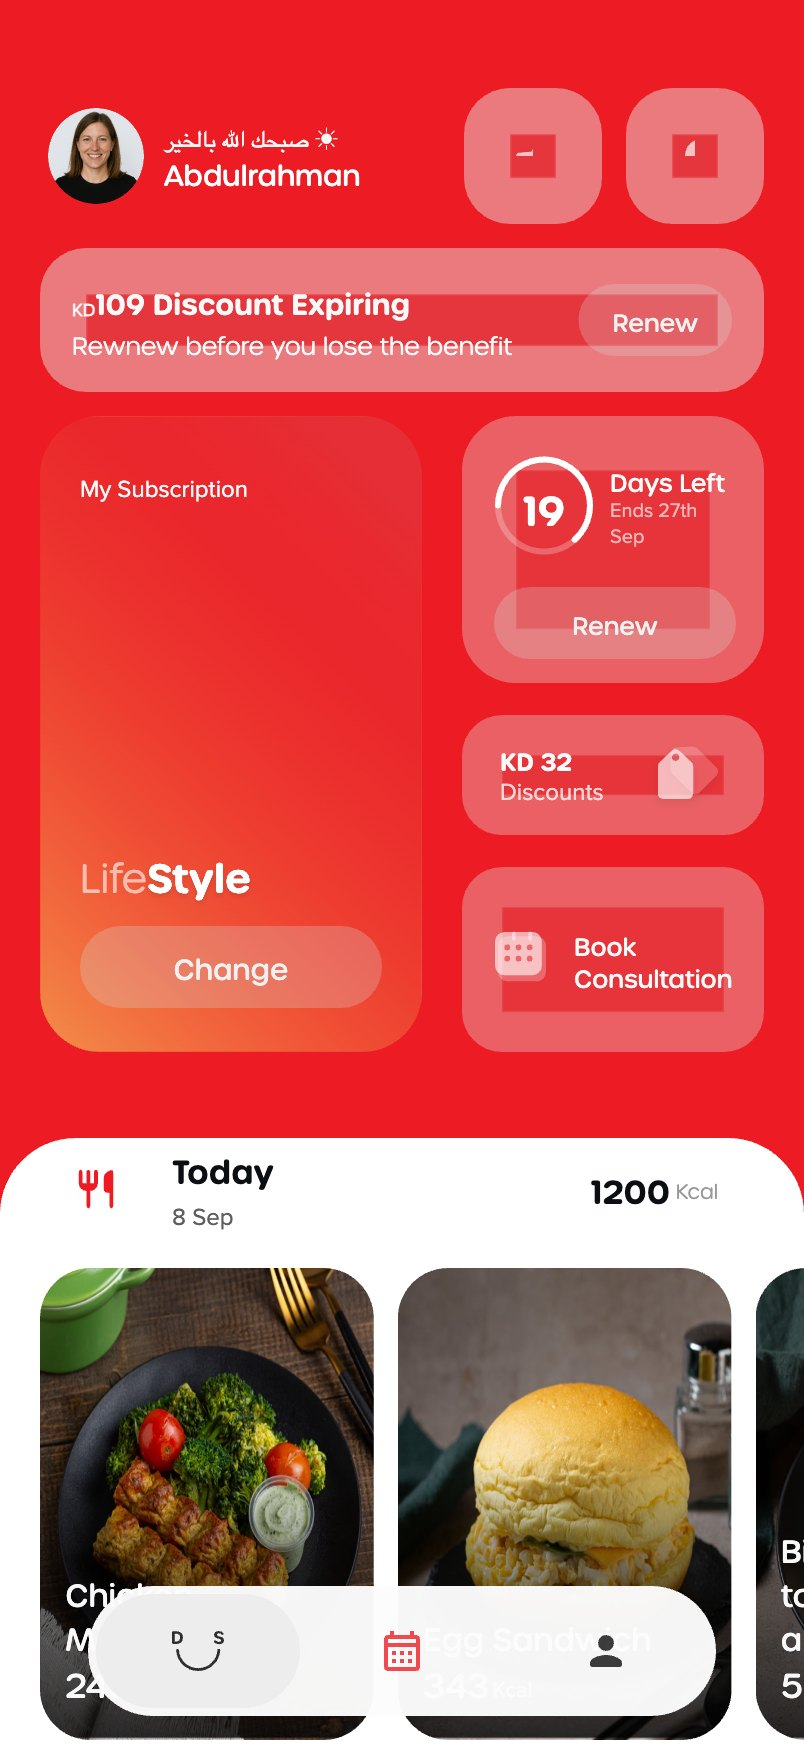
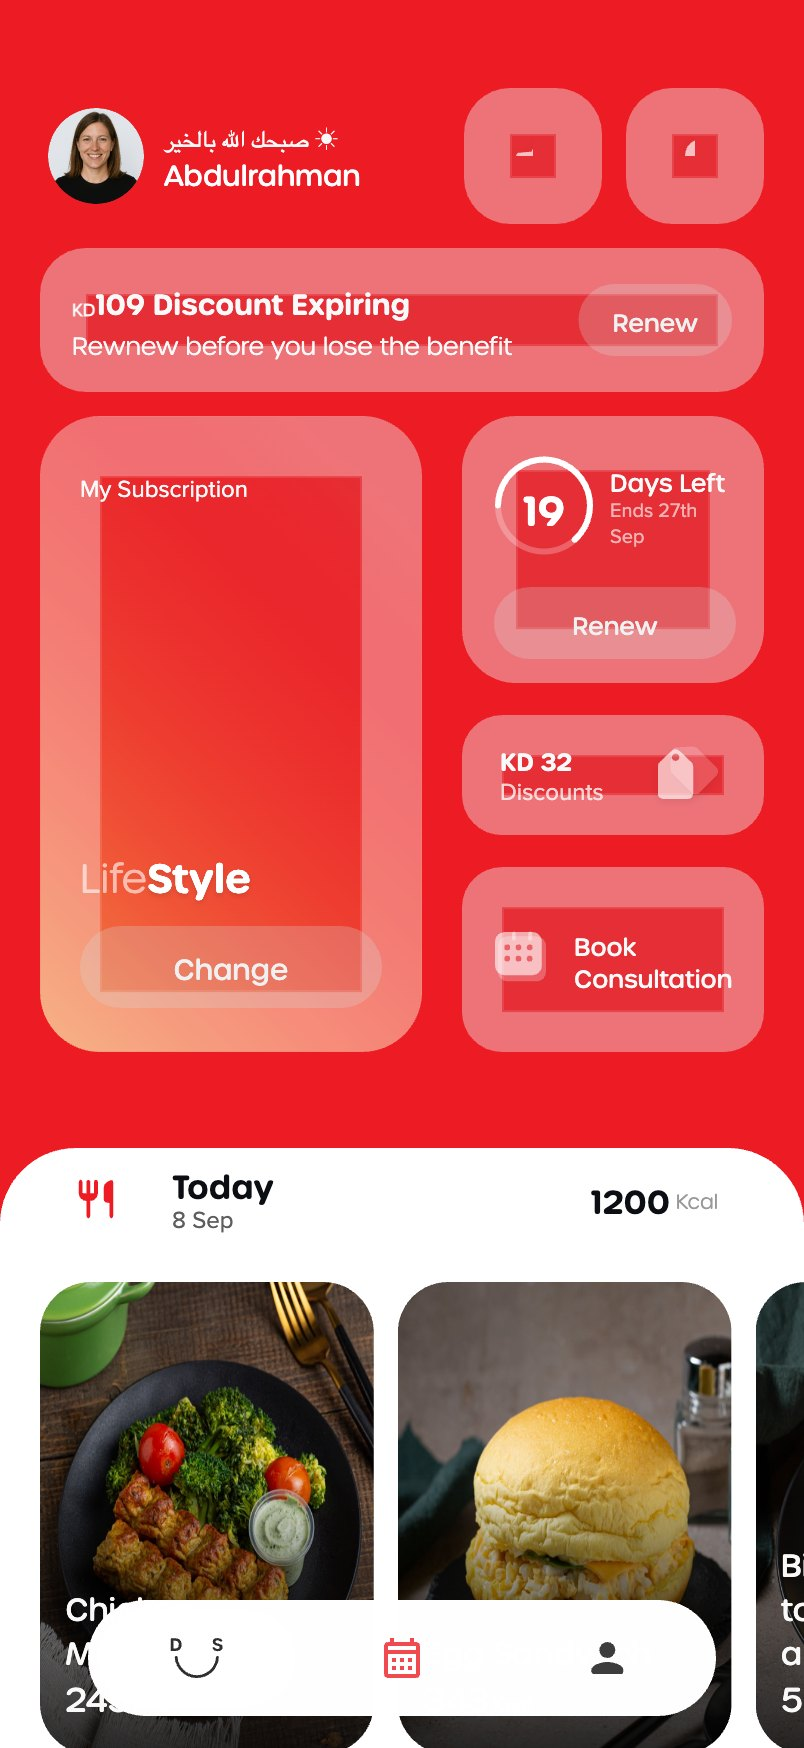
home v3: one glass recipe for every widget, hub's Apple tab bar, polish
All seven widgets (plan card included) now share ONE glass recipe via
pseudo-element layers — identical red tint base, blur, plus-lighter
milk and inner rim; audited computed styles to confirm they render the
same, radii per Figma. The plan widget's theme gradient layers over
the shared base so it finishes like its neighbours. Removed the
always-on top scroll blur. Meal sheet content gets Apple-style insets
clear of the 38px corners; day word and date sit closer; the macro
expansion slims to 84px so an open pill never collides with
'Tomorrow'. Tab bar rebuilt with the hub's exact Apple glass recipe
(white .34 + blur 30 saturate 200 contrast 1.06, layered inset
highlights, sheen gradient, white .85 selection pill).

Changed region(s): [[0.0, 0.6487, 1.0, 1.0], [0.0311, 0.2162, 0.5286, 0.6178], [0.9328, 0.8341, 1.0, 1.0]]

diff --git a/home/index.html b/home/index.html
@@ -92,11 +92,6 @@
     font: 600 17px/22px -apple-system, 'SF Pro', sans-serif; color: #fff; }
   .sbar .g { flex: 1; display: flex; gap: 7px; align-items: center; justify-content: center; }
   .sbar .g img { display: block; }
-  /* soft scroll-edge blur behind the status area */
-  .topfade { position: absolute; left: 0; right: 0; top: 0; height: 120px; z-index: 22;
-    pointer-events: none; backdrop-filter: blur(5px); -webkit-backdrop-filter: blur(5px);
-    mask-image: linear-gradient(to top, transparent, black 62%);
-    -webkit-mask-image: linear-gradient(to top, transparent, black 62%); }
 
   /* --- vertical page scroll: red zone then the meal sheet flow together --- */
   .scroller { position: absolute; inset: 0; overflow-y: auto; overflow-x: hidden;
@@ -148,13 +143,12 @@
 
   /* widget grid */
   .widgets { flex: 1; min-height: 0; display: flex; gap: 20px; }
-  .planw { flex: none; width: 191px; border-radius: 30px; position: relative;
-    overflow: hidden; display: flex; flex-direction: column;
+  /* the plan widget is the SAME glass, with its theme gradient layered on top
+     of the shared base (below the milk + rim), so all widgets finish alike */
+  .planw { flex: none; width: 191px; border-radius: 30px;
+    display: flex; flex-direction: column;
     justify-content: space-between; padding: 28px 20px 22px; cursor: pointer; }
-  .planw::before { content: ''; position: absolute; inset: 0; border-radius: 30px;
-    background: rgba(173,173,173,.12); mix-blend-mode: plus-lighter; pointer-events: none;
-    z-index: 2; }
-  .planw .grad { position: absolute; inset: 0; border-radius: 30px; }
+  .planw .grad { position: absolute; inset: 0; border-radius: inherit; z-index: 1; }
   .planw .z { position: relative; z-index: 3; }
   .pw-cap { font: 400 12px/16px 'Proxima Nova', -apple-system, sans-serif; color: #f9f9f9; }
   .pw-title { display: flex; align-items: baseline; margin-bottom: 10px;
@@ -179,20 +173,21 @@
   .deco.d3 { right: -14px; bottom: 48px; width: 52px; transform: rotate(-15deg); }
 
   .rightcol { flex: 1; min-width: 0; display: flex; flex-direction: column; gap: 16px; }
-  /* Figma's red glass, verbatim layers: the widget INHERITS the red beneath
-     (backdrop blur + red tint) with the plus-lighter milk and a soft inner
-     rim — no refraction; surfaces stay frosted per the house glass split */
-  .gwrap { position: relative; border-radius: 20px;
-    background: rgba(255,255,255,.045);
-    -webkit-backdrop-filter: blur(10px) saturate(150%);
-    backdrop-filter: blur(10px) saturate(150%);
+  /* ONE glass recipe for every widget — identical layers via pseudo-elements
+     so nothing can drift: red tint base + backdrop blur, plus-lighter milk,
+     soft inner rim. The widget inherits the red beneath it. */
+  .gwrap { position: relative; border-radius: 20px; overflow: hidden;
+    background: rgba(237,28,36,.30);
+    -webkit-backdrop-filter: blur(12px) saturate(150%);
+    backdrop-filter: blur(12px) saturate(150%); }
+  .gwrap::before { content: ''; position: absolute; inset: 0; border-radius: inherit;
+    background: rgba(173,173,173,.12); mix-blend-mode: plus-lighter;
+    pointer-events: none; z-index: 2; }
+  .gwrap::after { content: ''; position: absolute; inset: 0; border-radius: inherit;
+    pointer-events: none; z-index: 2;
     box-shadow: inset 0 1px 1px rgba(255,255,255,.22),
-      inset 0 0 0 .6px rgba(255,255,255,.13); }
+      inset 0 0 0 1px rgba(255,255,255,.10); }
   .gwrap .z { position: relative; z-index: 3; }
-  .gwrap .glass-tint { position: absolute; inset: 0; border-radius: inherit; z-index: 2;
-    background: rgba(237,28,36,.35); pointer-events: none; }
-  .gwrap .glass-lighter { position: absolute; inset: 0; border-radius: inherit; z-index: 2;
-    background: rgba(173,173,173,.12); mix-blend-mode: plus-lighter; pointer-events: none; }
 
   /* days-left widget — one widget, many shapes (Figma 4798-19569) */
   .daysw { flex: 1.6; min-height: 0; border-radius: 27px; padding: 12px 14px 12px 16px;
@@ -245,15 +240,17 @@
   .sheetc { position: relative; min-height: 520px;
     background: #fff; border-radius: 38px 38px 0 0; z-index: 20;
     padding-bottom: calc(120px + env(safe-area-inset-bottom, 0px)); }
-  .sh-head { height: 51px; margin: 23px 0 14px;
+  /* content sits clear of the 38px corner sweep, Apple-style insets */
+  .sh-head { height: 51px; margin: 28px 0 16px;
     display: flex; align-items: center; padding: 0 24px; gap: 14px; }
   .sh-tile { width: 48px; height: 48px; border-radius: 16px; background: #fff;
     display: flex; align-items: center; justify-content: center; flex: none;
     filter: drop-shadow(0 0 6.65px rgba(56,64,74,.08)); }
   .sh-tile img { width: 23px; height: 23px; display: block; }
   .sh-today { flex: 1; min-width: 0; }
-  .sh-today b { display: block; font: 600 16px/22px 'Urbane Rounded', sans-serif; color: #0b0e12; }
-  .sh-today span { font: 400 12px/16px 'Proxima Nova', sans-serif; color: #5e5e5e; }
+  .sh-today b { display: block; font: 600 16px/19px 'Urbane Rounded', sans-serif; color: #0b0e12; }
+  .sh-today span { display: block; font: 400 12px/14px 'Proxima Nova', sans-serif;
+    color: #5e5e5e; margin-top: 1px; }
   .sh-kcal { height: 48px; border-radius: 16px; background: #fff; flex: none;
     border: none; cursor: pointer;
     display: flex; gap: 3px; padding: 0 16px; align-items: center;
@@ -263,14 +260,14 @@
     font-style: normal; }
   /* the macro calculator hides folded inside the pill; tapping expands it
      leftward (Figma: Info Pairs behind a clipped 1px column) */
-  .sh-kcal .mac { display: flex; gap: 12px; align-items: center; overflow: hidden;
-    width: 0; opacity: 0; margin-right: 0;
+  .sh-kcal .mac { display: flex; gap: 8px; align-items: center; overflow: hidden;
+    width: 0; opacity: 0; margin-left: 0;
     transition: width .45s cubic-bezier(.3,1.15,.35,1), opacity .3s ease,
       margin-left .45s cubic-bezier(.3,1.15,.35,1); }
-  .sh-kcal.open .mac { width: 108px; opacity: 1; margin-left: 12px; }
+  .sh-kcal.open .mac { width: 84px; opacity: 1; margin-left: 10px; }
   .sh-kcal .mp { display: flex; align-items: center; gap: 2px;
-    font: 500 14px/20px 'Urbane Rounded', sans-serif; color: #0b0e12; }
-  .sh-kcal .mp i { font: 400 10px/16px 'Proxima Nova', sans-serif; color: #0d0d0d; }
+    font: 500 13px/18px 'Urbane Rounded', sans-serif; color: #0b0e12; }
+  .sh-kcal .mp i { font: 400 9px/14px 'Proxima Nova', sans-serif; color: #0d0d0d; }
   .mealstrip { display: flex; align-items: flex-start; gap: 29px; padding: 0 20px;
     overflow-x: auto; overflow-y: hidden; scrollbar-width: none;
     -webkit-overflow-scrolling: touch; }
@@ -294,24 +291,31 @@
   .mealcard .kc b { font: 500 16.5px/24px 'Urbane Rounded', sans-serif; }
   .mealcard .kc i { font: 400 11px/17px 'Proxima Nova', sans-serif; font-style: normal; }
 
-  /* ================= floating glass tab bar ================= */
-  .tabbar { position: absolute; left: calc(50% - 157px); width: 314px; height: 65px;
-    bottom: calc(16px + env(safe-area-inset-bottom, 0px)); z-index: 30; }
-  .tb-bg { position: absolute; inset: 0; border-radius: 999px; overflow: hidden;
-    backdrop-filter: blur(14px) saturate(170%); -webkit-backdrop-filter: blur(14px) saturate(170%);
-    box-shadow: 0 8px 40px rgba(0,0,0,.12), inset 0 0 0 1px rgba(255,255,255,.5); }
-  .tb-bg i { position: absolute; inset: 0; display: block; }
-  .tb-bg .f1 { background: rgba(255,255,255,.65); }
-  .tb-bg .f2 { background: #ddd; mix-blend-mode: color-burn; }
-  .tb-bg .f3 { background: #f7f7f7; mix-blend-mode: darken; }
-  .tb-tabs { position: absolute; inset: 4px; display: flex; }
-  .tb-pill { position: absolute; top: 0; bottom: 0; width: 102px; border-radius: 999px;
-    background: #ededed; left: 0; }
-  .tb-tab { position: relative; flex: 1; border: none; background: none; cursor: pointer;
+  /* ============ Apple glass tab bar — the hub's exact recipe ============ */
+  .tabbar { position: absolute; left: calc(50% - 157px); width: 314px; height: 58px;
+    bottom: calc(16px + env(safe-area-inset-bottom, 0px)); z-index: 30;
+    display: flex; gap: 4px; padding: 5px; border-radius: 999px;
+    background: rgba(255,255,255,.34);
+    -webkit-backdrop-filter: blur(30px) saturate(200%) contrast(1.06);
+    backdrop-filter: blur(30px) saturate(200%) contrast(1.06);
+    box-shadow: inset 0 1.5px 1.5px rgba(255,255,255,.8),
+      inset 0 -1px 1px rgba(255,255,255,.28),
+      inset 0 0 0 .8px rgba(255,255,255,.5),
+      0 14px 44px -14px rgba(0,0,0,.38);
+    overflow: hidden; }
+  .tabbar::before { content: ''; position: absolute; inset: 0;
+    border-radius: inherit; pointer-events: none;
+    background: linear-gradient(165deg, rgba(255,255,255,.5), rgba(255,255,255,0) 42%,
+      rgba(255,255,255,0) 68%, rgba(255,255,255,.18));
+    opacity: .8; }
+  .tb-tab { position: relative; flex: 1; border: none; background: transparent;
+    border-radius: 999px; cursor: pointer;
     display: flex; align-items: center; justify-content: center;
-    transition: transform .18s cubic-bezier(.2,.8,.3,1.4); }
-  .tb-tab:active { transform: scale(.9); }
-  .tb-tab img { width: 24px; height: 24px; display: block; position: relative; }
+    transition: transform .18s cubic-bezier(.2,.8,.3,1.4), background .25s ease; }
+  .tb-tab.on { background: rgba(255,255,255,.85);
+    box-shadow: inset 0 1px 1px rgba(255,255,255,.9), 0 2px 12px rgba(0,0,0,.1); }
+  .tb-tab:active { transform: scale(.92); }
+  .tb-tab img, .tb-tab svg { width: 24px; height: 24px; display: block; position: relative; }
   .tb-tab .logo { width: 26px; height: 20px; }
 
   /* ---- mobile lab sheet (triple-tap & hold) ---- */
@@ -439,8 +443,7 @@
             </button>
             <div class="topdocks">
               <button class="dockbtn gwrap" id="gStar" style="border-radius:23px" aria-label="Rewards">
-                <span class="glass-lighter"></span>
-                <svg preserveAspectRatio="none" overflow="visible" style="display: block;" width="32" height="32" viewBox="0 0 32 32" fill="none" xmlns="http://www.w3.org/2000/svg" class="ic">
+                                <svg preserveAspectRatio="none" overflow="visible" style="display: block;" width="32" height="32" viewBox="0 0 32 32" fill="none" xmlns="http://www.w3.org/2000/svg" class="ic">
 <g id="star" clip-path="url(#clip0_0_1070)">
 <foreignObject x="0.390724" y="2.89612" width="31.2185" height="30.2078"><div xmlns="http://www.w3.org/1999/xhtml" style="backdrop-filter:blur(2.65px);clip-path:url(#bgblur_1_0_1070_clip_path);height:100%;width:100%"></div></foreignObject><g id="Vector" filter="url(#filter0_d_0_1070)" data-figma-bg-blur-radius="5.3">
 <path d="M16 23.3595L21.5333 26.7061C22.5467 27.3195 23.7867 26.4128 23.52 25.2661L22.0533 18.9728L26.9467 14.7328C27.84 13.9595 27.36 12.4928 26.1867 12.3995L19.7467 11.8528L17.2267 5.90612C16.7733 4.82612 15.2267 4.82612 14.7733 5.90612L12.2533 11.8395L5.81333 12.3861C4.64 12.4795 4.16 13.9461 5.05333 14.7195L9.94667 18.9595L8.48 25.2528C8.21333 26.3995 9.45333 27.3061 10.4667 26.6928L16 23.3595Z" fill="white" fill-opacity="0.7" shape-rendering="crispEdges"/>
@@ -466,8 +469,7 @@
 </svg>
               </button>
               <button class="dockbtn gwrap" id="gBell" style="border-radius:23px" aria-label="Notifications">
-                <span class="glass-lighter"></span>
-                <svg preserveAspectRatio="none" overflow="visible" style="display: block;" width="32" height="32" viewBox="0 0 32 32" fill="none" xmlns="http://www.w3.org/2000/svg" class="ic">
+                                <svg preserveAspectRatio="none" overflow="visible" style="display: block;" width="32" height="32" viewBox="0 0 32 32" fill="none" xmlns="http://www.w3.org/2000/svg" class="ic">
 <g id="notifications" clip-path="url(#clip0_0_869)">
 <foreignObject x="1.68634" y="0.8" width="28.6273" height="34.4"><div xmlns="http://www.w3.org/1999/xhtml" style="backdrop-filter:blur(2.65px);clip-path:url(#bgblur_1_0_869_clip_path);height:100%;width:100%"></div></foreignObject><g id="Vector" filter="url(#filter0_d_0_869)" data-figma-bg-blur-radius="5.3">
 <path d="M16.0016 29C17.4683 29 18.6683 27.8 18.6683 26.3333H13.335C13.335 27.8 14.5216 29 16.0016 29ZM24.0016 21V14.3333C24.0016 10.24 21.815 6.81333 18.0016 5.90667V5C18.0016 3.89333 17.1083 3 16.0016 3C14.895 3 14.0016 3.89333 14.0016 5V5.90667C10.175 6.81333 8.00164 10.2267 8.00164 14.3333V21L6.28164 22.72C5.44164 23.56 6.02831 25 7.21498 25H24.775C25.9616 25 26.5616 23.56 25.7216 22.72L24.0016 21Z" fill="white" fill-opacity="0.7" shape-rendering="crispEdges"/>
@@ -499,8 +501,7 @@
           </div>
 
           <div class="promo gwrap" id="gPromo" style="border-radius:23px">
-            <span class="glass-lighter"></span>
-            <div class="p-texts z">
+                        <div class="p-texts z">
               <div class="p-title"><span class="kd">KD</span>109 Discount Expiring</div>
               <div class="p-sub">Rewnew before you lose the benefit</div>
             </div>
@@ -508,7 +509,7 @@
           </div>
 
           <div class="widgets">
-            <div class="planw" id="planW">
+            <div class="planw gwrap" id="planW" style="border-radius:30px">
               <div class="grad" id="planGrad"></div>
               <svg preserveAspectRatio="none" overflow="visible" style="display: block;" width="24.0932" height="23.0765" viewBox="0 0 24.0932 23.0765" fill="none" xmlns="http://www.w3.org/2000/svg" class="deco d1">
 <path id="Vector" d="M12.7168 2.98845L17.8892 0.177813C18.9654 -0.400375 20.2344 0.51509 20.0095 1.71965L18.9333 7.50153C18.8369 7.98335 18.9975 8.48123 19.367 8.81851L23.6398 12.8658C24.5233 13.701 24.0414 15.1946 22.8366 15.3552L17.0057 16.1101C16.5238 16.1743 16.0901 16.4795 15.8813 16.9292L13.3593 22.2453C12.8292 23.3535 11.2711 23.3535 10.741 22.2453L8.2191 16.9292C8.01028 16.4795 7.59264 16.1743 7.09468 16.1101L1.26373 15.3552C0.0589927 15.1946 -0.438967 13.701 0.460573 12.8658L4.73339 8.81851C5.08678 8.48123 5.24741 7.98335 5.16709 7.50153L4.09086 1.71965C3.86597 0.51509 5.13497 -0.400375 6.2112 0.177813L11.3675 2.98845C11.8012 3.22936 12.3152 3.22936 12.7489 2.98845" fill="#FFB800"/>
@@ -530,9 +531,7 @@
             </div>
             <div class="rightcol" id="rightcol">
               <div class="daysw gwrap" id="gDays" style="border-radius:27px">
-                <span class="glass-tint"></span>
-                <span class="glass-lighter"></span>
-                <div class="dw-main z">
+                                                <div class="dw-main z">
                   <div class="dw-ring">
                     <svg viewBox="0 0 50 50">
                       <circle cx="25" cy="25" r="23" fill="none" stroke="rgba(255,255,255,.25)" stroke-width="3"/>
@@ -549,9 +548,7 @@
                 <div class="dw-renew z"><button class="pillbtn" id="dwRenew">Renew</button></div>
               </div>
               <div class="discw gwrap" id="gDisc" style="border-radius:20px">
-                <span class="glass-tint"></span>
-                <span class="glass-lighter"></span>
-                <div class="di-texts z">
+                                                <div class="di-texts z">
                   <div class="di-kd">KD 32</div>
                   <div class="di-cap">Discounts</div>
                 </div>
@@ -591,9 +588,7 @@
 </svg>
               </div>
               <div class="consw gwrap" id="gConsult" style="border-radius:20px">
-                <span class="glass-tint"></span>
-                <span class="glass-lighter"></span>
-                <div class="row z">
+                                                <div class="row z">
                   <div class="calico">
                     <span class="plate"></span>
                     <svg preserveAspectRatio="none" overflow="visible" style="display: block;" width="24.4592" height="22.5852" viewBox="0 0 24.4592 22.5852" fill="none" xmlns="http://www.w3.org/2000/svg">
@@ -661,7 +656,6 @@
         </div>
 
         </div><!-- /scroller -->
-        <div class="topfade"></div>
         <div class="sbar">
           <div class="t">9:41</div>
           <div class="g">
@@ -681,10 +675,8 @@
           </div>
         </div>
         <div class="tabbar">
-          <div class="tb-bg"><i class="f1"></i><i class="f2"></i><i class="f3"></i></div>
-          <div class="tb-tabs">
-            <div class="tb-pill"></div>
-            <button class="tb-tab" aria-label="Home"><svg preserveAspectRatio="none" overflow="visible" style="display: block;" width="30.936" height="24" viewBox="0 0 30.936 24" fill="none" xmlns="http://www.w3.org/2000/svg" class="logo">
+          
+            <button class="tb-tab on" aria-label="Home"><svg preserveAspectRatio="none" overflow="visible" style="display: block;" width="30.936" height="24" viewBox="0 0 30.936 24" fill="none" xmlns="http://www.w3.org/2000/svg" class="logo">
 <path id="Vector" d="M15.5627 24C8.55971 24 2.81792 18.4611 2.43079 11.5046C2.40837 11.0984 2.73438 10.7558 3.13781 10.7558H3.39658C3.76945 10.7558 4.07916 11.0491 4.09953 11.4246C4.44592 17.4887 9.45419 22.3158 15.5607 22.3158C21.6672 22.3158 26.6775 17.4887 27.0239 11.4246C27.0463 11.0491 27.354 10.7558 27.7269 10.7558H27.9856C28.3911 10.7558 28.7171 11.0984 28.6927 11.5046C28.3055 18.459 22.5637 24 15.5607 24H15.5627ZM0.707027 7.83246H2.19239C5.30168 7.83246 6.51198 6.47645 6.51198 3.96752C6.51198 1.45859 5.30372 0.094367 2.19239 0.094367H0.707027C0.250618 0.094367 0 0.346696 0 0.806223V7.12061C0 7.58014 0.250618 7.83246 0.707027 7.83246ZM2.25963 6.3308H1.67486V1.58167H2.24537C4.1953 1.58167 4.81879 2.35097 4.81879 3.95111C4.81879 5.55124 4.1953 6.32875 2.25963 6.32875V6.3308ZM27.9754 7.92478C29.7216 7.92478 30.936 7.01188 30.936 5.62099C30.936 2.70587 26.6816 3.84648 26.6816 2.20737C26.6816 1.67809 27.136 1.34781 27.8715 1.34781C28.385 1.34781 28.7558 1.51603 29.1205 1.83811C29.4384 2.12121 29.6116 2.31199 30.0721 2.20121L30.2493 2.15813C30.7384 2.0412 30.8647 1.71707 30.5855 1.26165C30.1088 0.484144 29.0105 0 27.8002 0C26.1743 0 25.0434 0.906744 25.0434 2.24635C25.0434 5.14916 29.2591 4.16651 29.2591 5.67023C29.2591 6.24669 28.7762 6.58928 27.9653 6.58928C27.3234 6.58928 26.7835 6.3349 26.3617 5.88768C26.0581 5.56355 25.8503 5.44457 25.4754 5.56766L25.3328 5.61484C24.8641 5.7687 24.7235 6.07437 24.9741 6.48876C25.4958 7.34627 26.6714 7.92478 27.9795 7.92478H27.9754Z" fill="#2F2F2F"/>
 </svg></button>
             <button class="tb-tab" id="tabCal" aria-label="Calendar"><svg preserveAspectRatio="none" overflow="visible" style="display: block;" width="24" height="24" viewBox="0 0 24 24" fill="none" xmlns="http://www.w3.org/2000/svg">
@@ -697,7 +689,6 @@
 <path id="Vector" d="M12 12C14.21 12 16 10.21 16 8C16 5.79 14.21 4 12 4C9.79 4 8 5.79 8 8C8 10.21 9.79 12 12 12ZM12 14C9.33 14 4 15.34 4 18V19C4 19.55 4.45 20 5 20H19C19.55 20 20 19.55 20 19V18C20 15.34 14.67 14 12 14Z" fill="#0D0D0D"/>
 </g>
 </svg></button>
-          </div>
         </div>
       </div>
       <div class="island"></div>
@@ -711,7 +702,7 @@
 
 <script>
 window.dsOwnLabMenu = true;
-const BUILD = 'home 2026-09-08 · 2';
+const BUILD = 'home 2026-09-08 · 3';
 function vibrate(p) { try { navigator.vibrate && navigator.vibrate(p); } catch (_) {} }
 
 /* ================= modifiers ================= */
